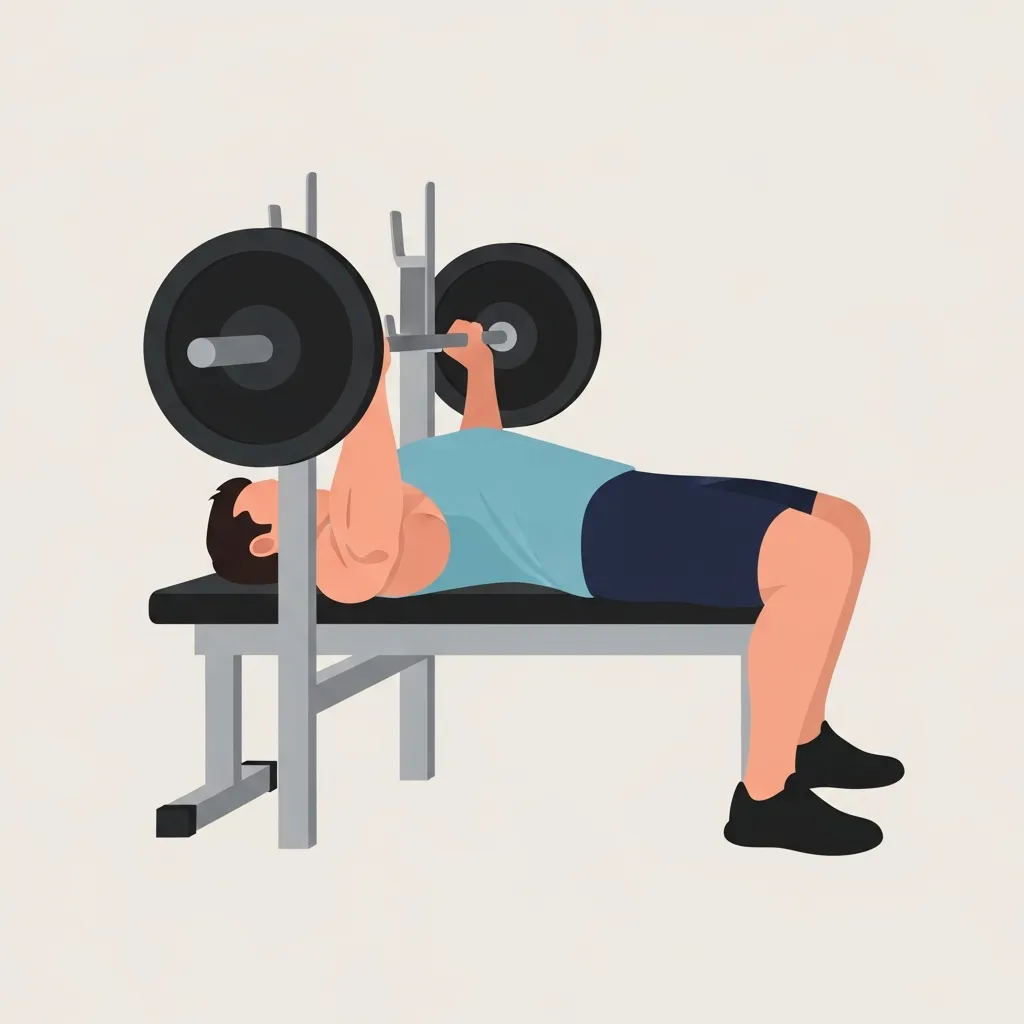
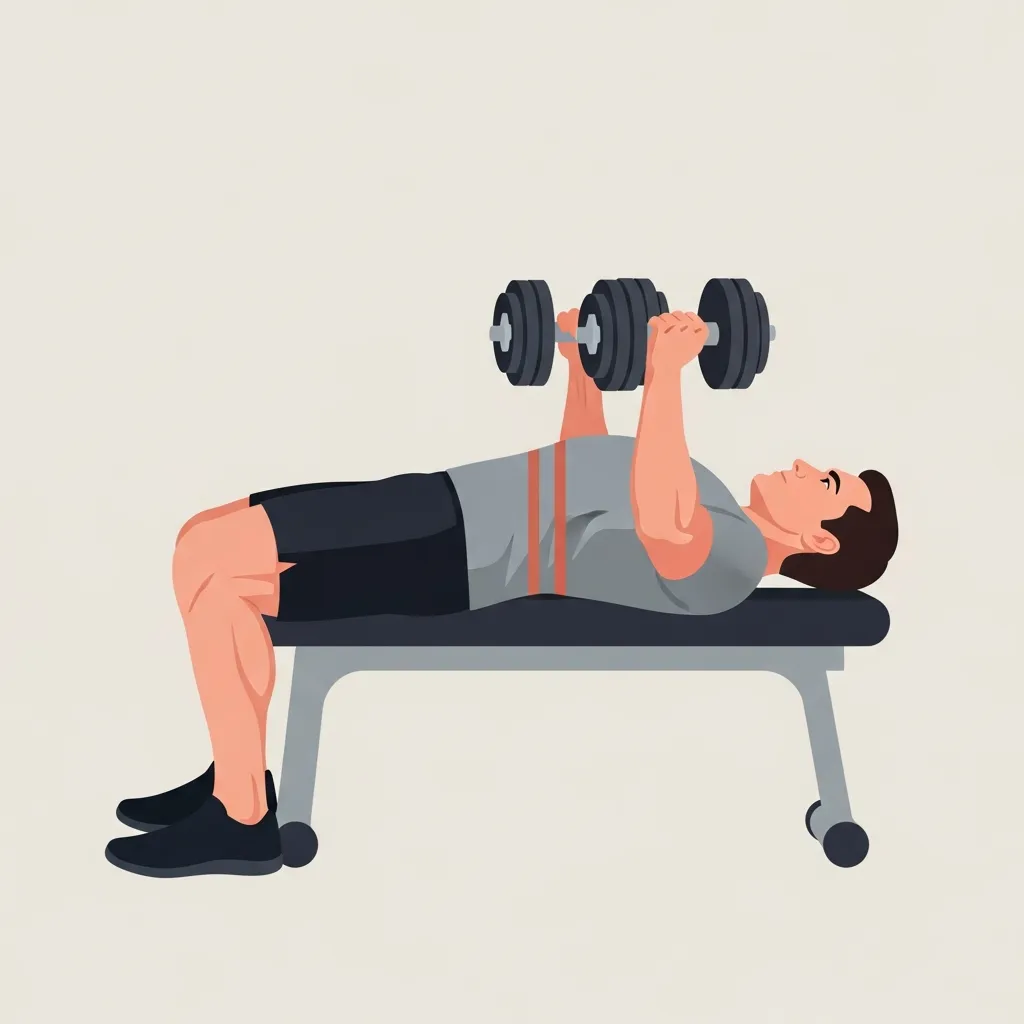
fix: dumbbell_press illustration + ExerciseIllustration flex-1 sizing
Caught during a full-scale UI audit. Two real bugs in shipped illustration work:

## B1: dumbbell_press.webp was actually a barbell

When the audit walked the home_gym Day 3 workout (Heavy DB Bench), the
active set screen showed a barbell bench press illustration under the
"PRIMARY LIFT" header — but the exercise is *dumbbell* press. The
Phase 2 generation (Imagen 4 Ultra, commit 67e42185) drew a barbell
because the model's prior for "bench press" is so strong that even an
explicit "this is the BOTTOM" + "elbows pointing DOWN" cue didn't
break it. The barbell cue snuck back in.

Fix: regenerated with an explicit "TWO SEPARATE DUMBBELLS, NOT joined
by any bar or handle" cue + a "no single bar / no long horizontal bar"
negative prompt. All 3 attempts produced two clear dumbbells, no
shared handle. Used the first attempt.

## H2: "Up next" text was width-0 on rest screen

The rest screen's "Up next" section is a flex row with a 64px
thumbnail and a text container next to it. Probed the rendered DOM:
text container width was **0px**, exercise name + rep count were
squeezed into nothing.

Root cause: the `ExerciseIllustration` component's compact-mode
wrapper had `className="relative w-full aspect-square ..."`. The `w-full`
is appended-to via the caller's className, but in Tailwind's generated
CSS, `.w-full` is defined AFTER `.w-16` — so when both classes apply,
`w-full` wins and the wrapper takes 100% of the parent. The text
container got squeezed to 0.

Fix:
[…]

Changed region(s): [[0.0938, 0.1562, 0.875, 0.875]]

diff --git a/src/pages/ArmorDashboard.jsx b/src/pages/ArmorDashboard.jsx
@@ -377,7 +377,7 @@ export default function ArmorDashboard({ onStartWorkout, onNavigateToSettings })
                     <ExerciseIllustration
                       exerciseId={todayWorkout.primaryLift.exerciseId}
                       compact
-                      className="mt-3"
+                      className="w-full mt-3"
                     />
                     {/* Inline plate visualizer so the user knows exactly what to load
                         before tapping Start. Weight must be in the selected unit. */}

diff --git a/src/pages/ArmorWorkoutSession.jsx b/src/pages/ArmorWorkoutSession.jsx
@@ -510,7 +510,7 @@ function StrengthScreen({ primaryLift, accessories, currentWeek, currentDay, onC
                 compact
                 className="w-16 h-16 shrink-0 rounded-lg"
               />
-              <div className="text-left min-w-0">
+              <div className="text-left min-w-0 flex-1">
                 <p className="text-sm font-semibold capitalize truncate">
                   {nextEx.exerciseId?.replace(/_/g, ' ')}
                 </p>

diff --git a/src/components/ExerciseIllustration.jsx b/src/components/ExerciseIllustration.jsx
@@ -34,7 +34,7 @@ export default function ExerciseIllustration({
   if (compact) {
     return (
       <div
-        className={`relative w-full aspect-square overflow-hidden rounded-xl bg-[var(--color-surface-1)] ${className}`}
+        className={`relative aspect-square overflow-hidden rounded-xl bg-[var(--color-surface-1)] ${className || 'w-16 h-16'}`}
         role="img"
         aria-label={altText}
       >
